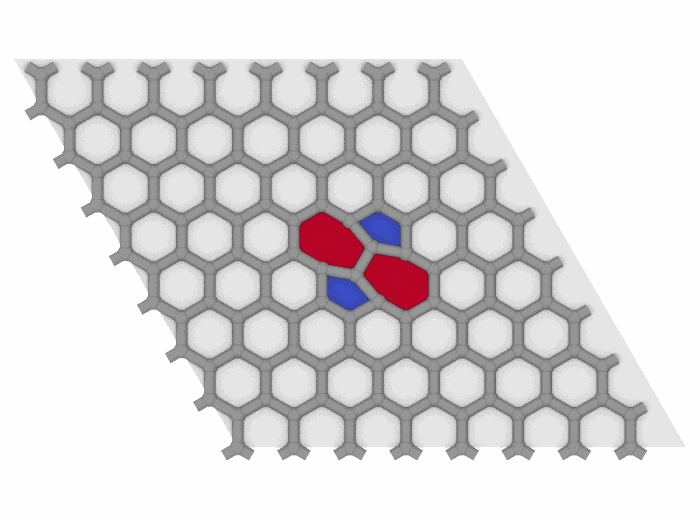
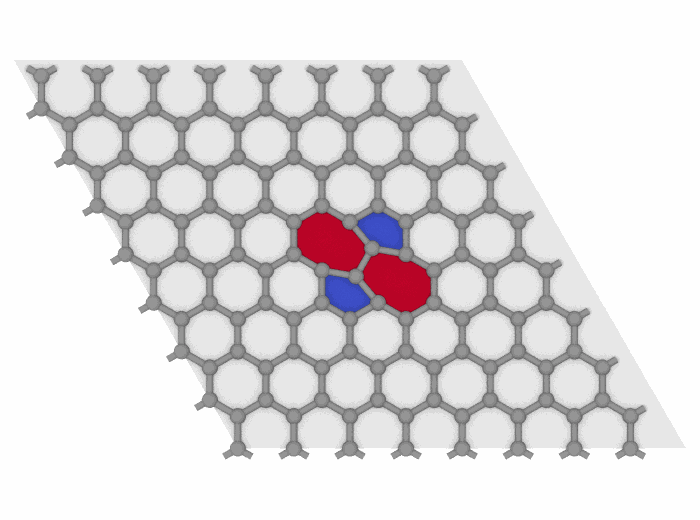
Thinner bonds by default: radius 0.15 Å with spheres and space filling, as with balls and sticks

Changed region(s): [[0.03, 0.0923, 0.93, 0.8923]]

diff --git a/src/mdapy/visualization/_render.py b/src/mdapy/visualization/_render.py
@@ -298,11 +298,11 @@ def assign_color(
 #: drawn and the radius of the bonds, each unless given.
 REPRESENTATIONS: dict[str, tuple[Any, Any, float]] = {
     # atoms as spheres of their display radius
-    "spheres": ("display", None, 0.25),
+    "spheres": ("display", None, 0.15),
     # small balls, a quarter of the van der Waals radius, and covalent bonds
     "ball_and_stick": (("vdw", 0.25), "covalent", 0.15),
     # atoms as spheres of their van der Waals radius
-    "space_filling": ("vdw", None, 0.25),
+    "space_filling": ("vdw", None, 0.15),
     # covalent bonds as sticks with round ends
     "licorice": (None, "covalent", 0.2),
 }

diff --git a/docs/visualization/rendering.md b/docs/visualization/rendering.md
@@ -90,7 +90,7 @@ lines=None, line_radius=0.1, line_color=(0.6, 0.6, 0.6), wrap_lines=False,
 
 | Representation | Atoms | Bonds |
 |---|---|---|
-| `spheres` | display radii | none, radius 0.25 Å when given |
+| `spheres` | display radii | none, radius 0.15 Å when given |
 | `ball_and_stick` | a quarter of the van der Waals radii | covalent, radius 0.15 Å |
 | `space_filling` | van der Waals radii | none |
 | `licorice` | as wide as the bonds | covalent, radius 0.2 Å |
